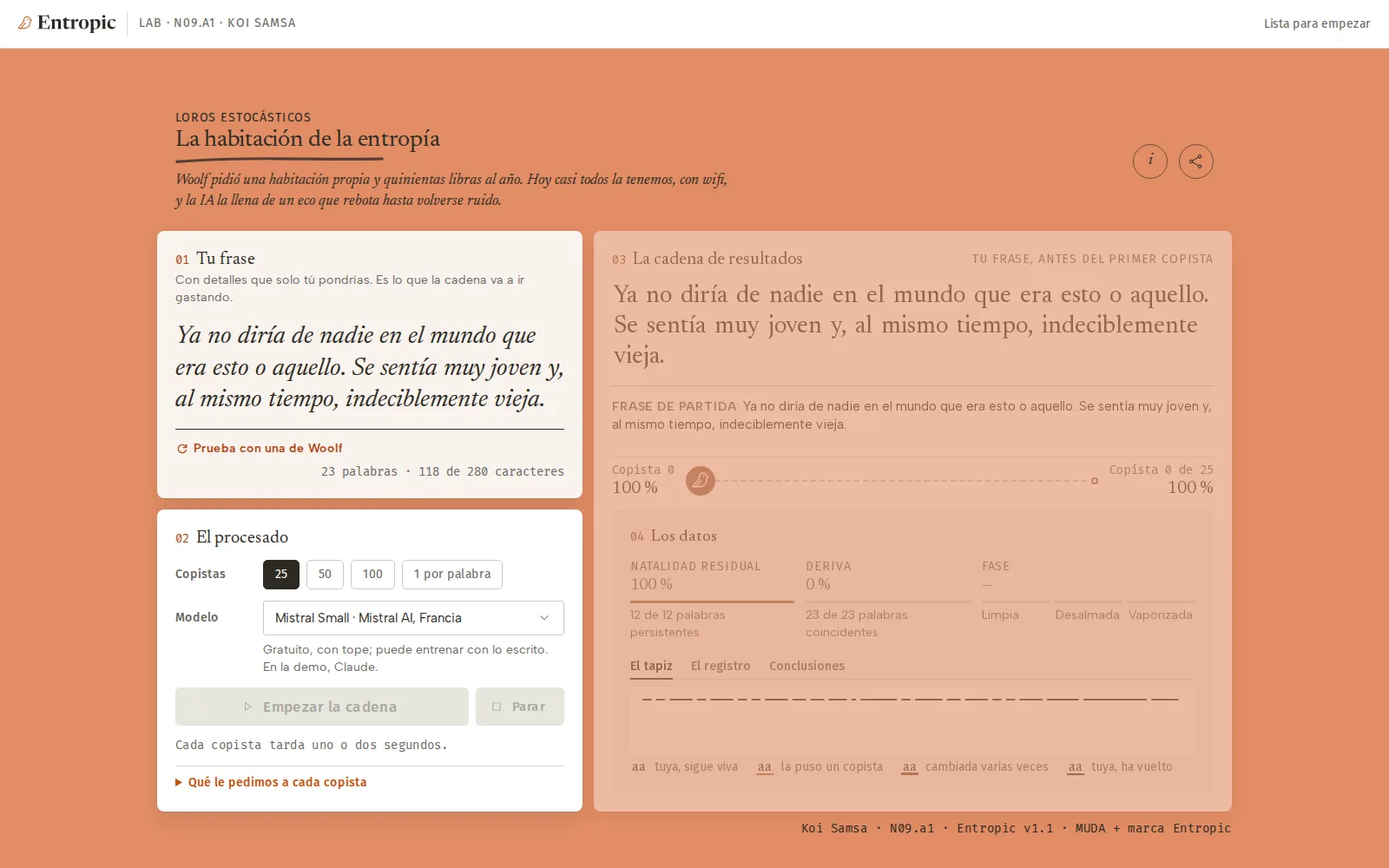
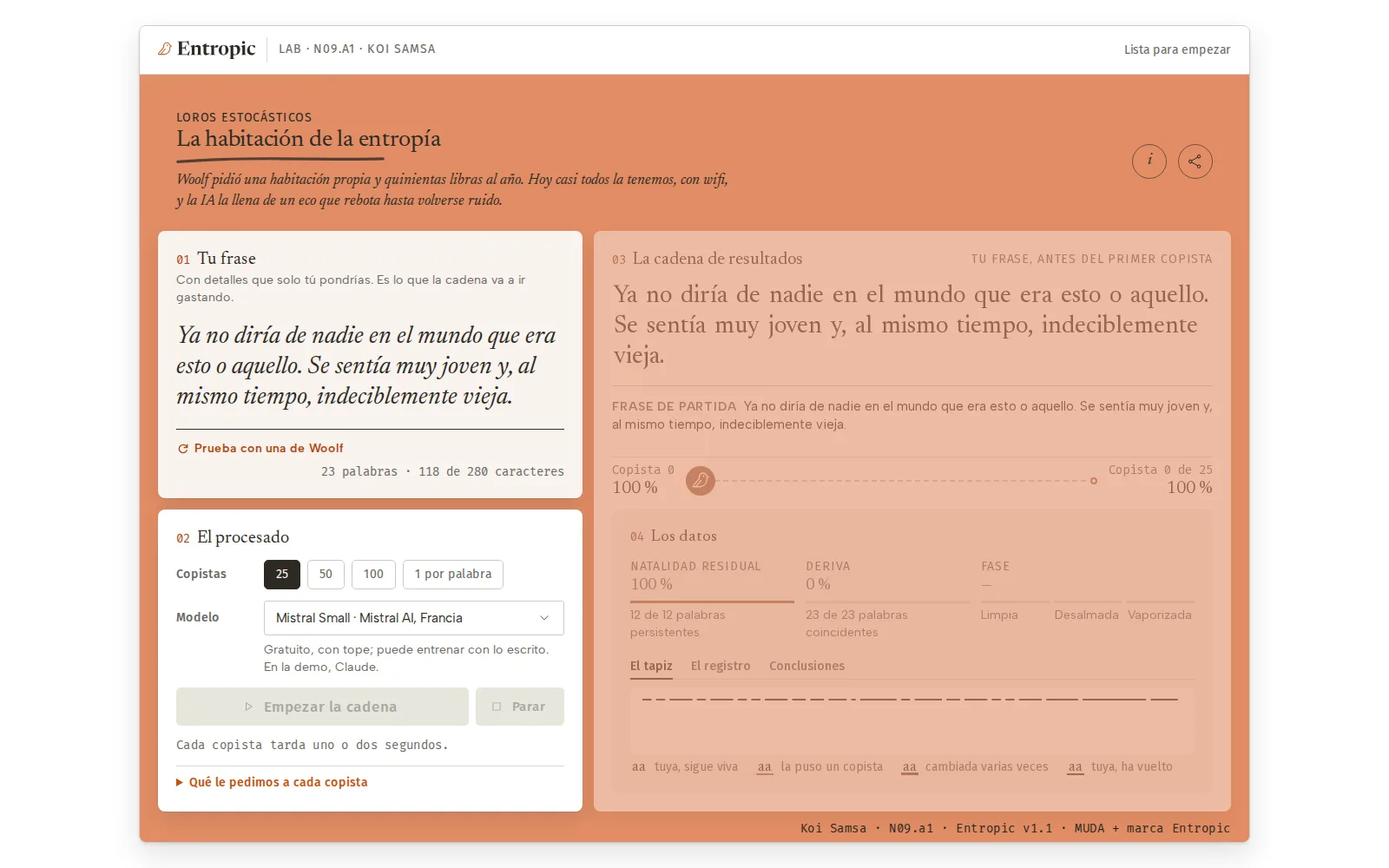
Entropic (pruebas): el artefacto con sus límites sobre papel blanco
Claude-Session: https://claude.ai/code/session_01NYq8dv3LPkkbJZLNcdF2uc

diff --git a/public/grafo/KS-N09a1-habitacion-entropia-v1.html b/public/grafo/KS-N09a1-habitacion-entropia-v1.html
@@ -1001,12 +1001,12 @@ details.info > summary { width: var(--muda-size-control); height: var(--muda-siz
    0,8 · 0,9 · 1 · 1,15 · 1,3 — la mayor que quepa entera. Por debajo de 1000 de ancho, la columna de móvil.
    Dentro de la mesa: densidad comprimida siempre y etiquetas de 14 px como mínimo (a 0,9, 12,6). ═══ */
 #campo { container-type: inline-size; }
-html.mesa body { display: flex; flex-direction: column; min-height: 100vh; background: var(--muda-color-orange-500); }
-html.mesa .bar { flex: 0 0 auto; zoom: var(--mesa-z, 1); }
+html.mesa body { display: flex; flex-direction: column; min-height: 100vh; background: var(--muda-color-bg-surface); }
+html.mesa .bar { flex: 0 0 auto; position: relative; }
 html.mesa .medidores { grid-template-columns: minmax(0, 1fr) minmax(0, 1fr) minmax(0, 1.3fr); }
 .medidor .escala { column-gap: var(--muda-space-sm); }
 .medidor .escala b { white-space: nowrap; }
-html.mesa #campo { zoom: var(--mesa-z, 1); width: 1280px; height: 885px; flex: 0 0 auto; margin: auto; box-sizing: border-box; }
+html.mesa #campo { width: 100%; height: 885px; flex: 0 0 auto; box-sizing: border-box; }
 html.mesa { --muda-typography-size-meta-s: 14px; --muda-typography-size-meta-m: 14px; --muda-typography-size-meta-l: 14px; }
 html.mesa .pantalla .now-origin .now-origin-l, html.mesa #pConc .ticket .tq-k, html.mesa #pConc .ticket .tq-num dt { font-size: 14px; }
 
@@ -1022,12 +1022,20 @@ html.mesa .pantalla .now-origin .now-origin-l, html.mesa #pConc .ticket .tq-k, h
 #pTapiz .legend { padding: 0; box-shadow: none; gap: var(--muda-space-xs) var(--muda-space-lg); font-size: var(--muda-typography-size-meta-l); }
 #pTapiz .tapiz-read:empty { display: none; }
 #pTapiz .tapiz-read:not(:empty) + .legend { display: none; }
+
+/* ═══ v1.1 · el artefacto, con sus límites (Patricia, 15:42: «el fondo de la página, blanco; el programita, la app naranja con su
+   franjita del logo arriba, con límites visibles alrededor de la totalidad del artefacto»). Barra y campo forman un solo objeto:
+   filete de 1, radio 8 y sombra de elevación MUDA; alrededor, papel blanco con 13 de margen. En móvil el objeto es la pantalla. ═══ */
+html.mesa .app { zoom: var(--mesa-z, 1); width: 1280px; margin: auto; display: flex; flex-direction: column; flex: 0 0 auto;
+  border: 1px solid var(--muda-color-stroke-sub); border-radius: var(--muda-radius-md); overflow: hidden;
+  box-shadow: 0 2px 3px rgb(45 42 35 / .08), 0 13px 34px rgb(45 42 35 / .14); }
+html.mesa body { padding: var(--muda-space-md); box-sizing: border-box; }
 </style>
 
 <script>
 /* v1.1 · la mesa: etapa 0,9 · 1 · 1,15 · 1,3 — la mayor que cabe entera (barra y campo, 1280 × 880, escalan juntos) */
 (function () {
-  const root = document.documentElement, W0 = 1280, H0 = 940, ETAPAS = [0.8, 0.9, 1, 1.15, 1.3];   /* 940 = barra 55 + campo 885 */
+  const root = document.documentElement, W0 = 1280 + 26, H0 = 942 + 26, ETAPAS = [0.8, 0.9, 1, 1.15, 1.3];   /* artefacto 1280 × 942 (barra 55 + campo 885 + filetes) + 13 de papel por lado */
   function etapa() {
     const w = root.clientWidth, h = window.innerHeight;
     let z = 0;
@@ -1044,6 +1052,7 @@ html.mesa .pantalla .now-origin .now-origin-l, html.mesa #pConc .ticket .tq-k, h
 })();
 </script>
 <div id="llegada" aria-hidden="true"><p class="ll-k">koisamsa.com · Lab</p><svg class="ll-logo" viewBox="0 -1499 10387 1940" aria-hidden="true" xmlns="http://www.w3.org/2000/svg"><g class="logo-ave"><path class="logo-icon" transform="translate(-70.9,-1443.1) scale(6.4423)" d="M176,68a12,12,0,1,1-12-12A12,12,0,0,1,176,68Zm64,12a8,8,0,0,1-3.56,6.66L216,100.28V120A104.11,104.11,0,0,1,112,224H24a16,16,0,0,1-12.49-26l.1-.12L96,96.63V76.89C96,43.47,122.79,16.16,155.71,16H156a60,60,0,0,1,57.21,41.86l23.23,15.48A8,8,0,0,1,240,80Zm-22.42,0L201.9,69.54a8,8,0,0,1-3.31-4.64A44,44,0,0,0,156,32h-.22C131.64,32.12,112,52.25,112,76.89V99.52a8,8,0,0,1-1.85,5.13L24,208h26.9l70.94-85.12a8,8,0,1,1,12.29,10.24L71.75,208H112a88.1,88.1,0,0,0,88-88V96a8,8,0,0,1,3.56-6.66Z"/></g><g class="logo-nombre"><path class="logo-name" d="M3000.35933670235 -1055.96044921875 2957.879112092975 -746.0 3000.35933670235 -438.03955078125H2974.1192243976625L2851.2469099445375 -700.3997192382812L2439.6646955890687 -723.9757080078125V-769.4483032226562L2851.2469099445375 -796.17626953125L2974.1192243976625 -1055.96044921875ZM3322.6556623859437 -1008.4392700195312 3291.7195051593812 -998.7432250976562 3056.3745954914125 -1391.0319213867188 3216.5827864093812 -1353.03955078125H2362.4308088703187V-1430.0H3085.8228987140687L3226.4551008625062 -1498.8403930664062H3239.9672468586ZM3090.9110334796937 -43.05621337890625 3354.92769607735 -444.82513427734375 3388.407920686725 -436.12908935546875 3272.231651155475 66.29632568359375H3254.9034040851625L3122.2392805500062 0.0H2362.4308088703187V-76.96044921875H3241.094932405475ZM2060.94918045235 0.0V-32.81610107421875L2224.684776155475 -77.36016845703125V-1353.6398315429688L2060.94918045235 -1396.7598876953125V-1430.0H2558.7361677570375V0.0ZM3884.1997297687562 -829.0471801757812V-60.39208984375L3998.3669660968812 -29.5440673828125V0.0H3473.6695173664125V-29.5440673828125L3592.5008772296937 -61.66412353515625V-805.9666748046875Q3576.076865999225 -821.4788208007812 3545.7288435382875 -849.5190734863281Q3515.38082107735 -877.559326171875 3462.645225374225 -919.2872924804688V-943.6474609375L3870.447471467975 -1054.5759887695312H3884.1997297687562ZM4132.117820589068 -29.5440673828125 4246.8610456867245 -60.39208984375V-682.1915283203125Q4246.8610456867245 -741.1353149414062 4228.025169221881 -778.2911071777344Q4209.189292757037 -815.4468994140625 4170.941551057818 -833.0707702636719Q4132.6938093585995 -850.6946411132812 4072.3822248859437 -850.6946411132812Q4012.8867414875062 -850.6946411132812 3956.6511457843812 -834.4947814941406Q3900.4155500812562 -818.294921875 3851.7195051593812 -794.8709106445312L3844.231651155475 -814.1748657226562Q3921.8076399250062 -889.1353149414062 3977.8236006183656 -934.8275451660156Q4033.839561311725 -980.519775390625 4078.415550081256 -1004.1238708496094Q4122.991538850787 -1027.7279663085938 4165.5356062335995 -1035.8639831542969Q4208.079673616412 -1044.0 4259.439842073443 -1044.0Q4400.9276960773495 -1044.0 4469.743797151568 -966.5600280761719Q4538.559898225787 -889.1200561523438 4538.559898225787 -733.96044921875V-61.66412353515625L4656.9672468585995 -29.5440673828125V0.0H4132.117820589068ZM5139.704246370318 -291.25677490234375Q5139.704246370318 -222.34490966796875 5182.3881452960995 -188.02499389648438Q5225.072044221881 -153.705078125 5304.464134065631 -153.705078125Q5349.736167757037 -153.705078125 5399.856223909381 -160.8570556640625Q5449.9762800617245 -168.009033203125 5517.3683699054745 -186.1610107421875V-147.13671875Q5416.312156526568 -79.4163818359375 5348.2118757648495 -42.1322021484375Q5280.111595003131 -4.8480224609375 5227.6632917804745 9.984039306640625Q5175.214988557818 24.81610107421875 5120.462730257037 24.81610107421875Q5041.414146272662 24.81610107421875 4980.313865510943 -5.636016845703125Q4919.2135847492245 -36.088134765625 4884.033500520709 -100.29632568359375Q4848.853416292193 -164.5045166015625 4848.853416292193 -265.56072998046875V-852.7508544921875L4703.620933382037 -960.0076293945312V-980.7918090820312Q4714.4689558429745 -987.7918090820312 4745.493247835162 -1005.1679382324219Q4776.5175398273495 -1022.5440673828125 4820.341972200396 -1047.9642639160156Q4864.166404573443 -1073.3844604492188 4915.7028425617245 -1103.3806457519531Q4967.239280550006 -1133.3768310546875 5021.171623079303 -1164.9649658203125Q5075.1039656085995 -1196.5531005859375 5124.344077913287 -1225.5531005859375H5139.704246370318V-993.5121459960938ZM5030.638999788287 -885.0471801757812V-1024.0H5484.2802351398495L5465.312156526568 -885.0471801757812ZM6303.096336214068 -1044.1200561523438Q6355.1525495929745 -1044.1200561523438 6385.392661897662 -1012.7598876953125Q6415.6327742023495 -981.3997192382812 6415.6327742023495 -928.9194946289062Q6415.6327742023495 -863.6231689453125 6373.592521516803 -819.2508544921875Q6331.552268831256 -774.8785400390625 6270.1039656085995 -774.8785400390625Q6234.5356062335995 -774.8785400390625 6206.523460237506 -781.6505737304688Q6178.511314241412 -788.422607421875 6150.755241243365 -795.1946411132812Q6122.999168245318 -801.9666748046875 6086.911033479693 -801.9666748046875Q6057.4870222492245 -801.9666748046875 6032.971061555865 -794.0107421875Q6008.455100862506 -786.0548095703125 5986.211173860553 -770.8108825683594Q5963.9672468585995 -755.5669555664062 5940.3593367023495 -732.2630004882812L5939.935325471881 -777.9590454101562Q6021.295493928912 -867.9833374023438 6076.823600618365 -921.1915283203125Q6132.351707307818 -974.3997192382812 6171.379813997271 -1000.8518371582031Q6210.4079206867245 -1027.303955078125 6241.072044221881 -1035.7120056152344Q6271.736167757037 -1044.1200561523438 6303.096336214068 -1044.1200561523438ZM5967.199729768756 -850.2477416992188V-61.66412353515625L6106.031089632037 -29.5440673828125V0.0H5556.669517366412V-29.5440673828125L5675.500877229693 -61.66412353515625V-805.9666748046875Q5662.500877229693 -817.7827758789062 5646.680961458209 -831.0548095703125Q5630.8610456867245 -844.3268432617188 5606.7531355304745 -865.0069274902344Q5582.6452253742245 -885.68701171875 5545.6452253742245 -919.2872924804688V-943.6474609375L5953.4474714679745 -1054.5759887695312H5967.199729768756ZM6977.509910432818 -34.60028076171875Q7052.461326448443 -34.60028076171875 7100.440849153521 -83.66412353515625Q7148.4203718585995 -132.72796630859375 7171.108085481646 -234.65579223632812Q7193.795799104693 -336.5836181640625 7193.795799104693 -494.03955078125Q7193.795799104693 -658.0076293945312 7171.820091096881 -767.7796630859375Q7149.844383089068 -877.5516967773438 7102.304832307818 -933.2637023925781Q7054.765281526568 -988.9757080078125 6978.421775667193 -988.9757080078125Q6903.470359651568 -988.9757080078125 6855.7028425617245 -939.911865234375Q6807.935325471881 -890.8480224609375 6785.0356062335995 -789.1322021484375Q6762.135886995318 -687.4163818359375 6762.135886995318 -529.96044921875Q6762.135886995318 -366.568359375 6784.111595003131 -256.29632568359375Q6806.087303010943 -146.0242919921875 6853.626853792193 -90.31228637695312Q6901.166404573443 -34.60028076171875 6977.509910432818 -34.60028076171875ZM6968.725730745318 24.2401123046875Q6820.005393831256 24.2401123046875 6703.8412702960995 -43.7598876953125Q6587.677146760943 -111.7598876953125 6521.04112991524 -232.2598876953125Q6454.405113069537 -352.7598876953125 6454.405113069537 -510.03192138671875Q6454.405113069537 -669.0 6524.661186067584 -790.2720336914062Q6594.917259065631 -911.5440673828125 6715.6254499835995 -979.89208984375Q6836.333640901568 -1048.2401123046875 6987.205955354693 -1048.2401123046875Q7138.926292268756 -1048.2401123046875 7254.802421419146 -980.4521179199219Q7370.678550569537 -912.6641235351562 7436.31456741524 -792.2401123046875Q7501.950584260943 -671.8161010742188 7501.950584260943 -513.9680786132812Q7501.950584260943 -355.0 7430.482505647662 -233.51596069335938Q7359.014427034381 -112.03192138671875 7238.230247346881 -43.895904541015625Q7117.446067659381 24.2401123046875 6968.725730745318 24.2401123046875ZM8437.756248323443 -485.81610107421875Q8437.756248323443 -694.4559326171875 8377.412742464068 -787.1596069335938Q8317.069236604693 -879.86328125 8186.205955354693 -879.86328125Q8142.078269807818 -879.86328125 8102.5265730304745 -869.9073486328125Q8062.974876253131 -859.951416015625 8027.423179475787 -839.5836181640625Q7991.871482698443 -819.2158203125 7959.167808382037 -786.9042358398438L7950.527976839068 -814.1124267578125Q8018.224021760943 -885.1124267578125 8072.391959993365 -930.9163818359375Q8126.559898225787 -976.7203369140625 8172.379813997271 -1002.3882751464844Q8218.199729768756 -1028.0562133789062 8260.50368484688 -1038.1481628417969Q8302.807639925006 -1048.2401123046875 8346.775718538287 -1048.2401123046875Q8473.11159500313 -1048.2401123046875 8561.311454622271 -990.9201965332031Q8649.511314241412 -933.6002807617188 8695.483207551959 -827.5083312988281Q8741.455100862506 -721.4163818359375 8741.455100862506 -572.6002807617188Q8741.455100862506 -381.5440673828125 8669.199027864459 -248.07598876953125Q8596.942954866412 -114.60791015625 8470.762870637896 -45.18389892578125Q8344.58278640938 24.2401123046875 8181.886741487506 24.2401123046875Q8122.6147077960995 24.2401123046875 8062.538719026568 15.952117919921875Q8002.462730257037 7.66412353515625 7945.250724641803 -9.911865234375Q7888.038719026568 -27.48785400390625 7836.070640413287 -55.0638427734375H8013.3197859210995V379.09576416015625L8152.151145784381 411.2158203125V440.7598876953125H7602.789573518756V411.2158203125L7721.620933382037 379.09576416015625V-806.3906860351562Q7708.620933382037 -818.206787109375 7692.801017610553 -831.2668151855469Q7676.981101839068 -844.3268432617188 7652.873191682818 -865.0069274902344Q7628.765281526568 -885.68701171875 7591.765281526568 -919.2872924804688V-943.6474609375L7999.567527620318 -1054.5759887695312H8013.3197859210995V-868.6793823242188V-224.59124755859375Q8013.3197859210995 -167.6474609375 8036.779533235553 -124.70367431640625Q8060.239280550006 -81.7598876953125 8102.3988874835995 -58.060028076171875Q8144.558494417193 -34.36016845703125 8199.294090120318 -34.36016845703125Q8274.821494905475 -34.36016845703125 8328.13307937813 -81.13601684570312Q8381.444663850787 -127.911865234375 8409.600456087115 -227.7158203125Q8437.756248323443 -327.519775390625 8437.756248323443 -485.81610107421875ZM9110.470359651568 -1168.0791015625Q9035.598045198443 -1168.0791015625 8992.101859895709 -1216.8032531738281Q8948.605674592975 -1265.5274047851562 8948.605674592975 -1328.7036743164062Q8948.605674592975 -1390.60791015625 8992.101859895709 -1434.8320617675781Q9035.598045198443 -1479.0562133789062 9110.470359651568 -1479.0562133789062Q9185.766685335162 -1479.0562133789062 9227.47487625313 -1434.8320617675781Q9269.1830671711 -1390.60791015625 9269.1830671711 -1328.7036743164062Q9269.1830671711 -1265.5274047851562 9227.47487625313 -1216.8032531738281Q9185.766685335162 -1168.0791015625 9110.470359651568 -1168.0791015625ZM9269.351707307818 -1054.5759887695312V-849.82373046875V-60.39208984375L9383.518943635943 -29.5440673828125V0.0H8858.821494905475V-29.5440673828125L8977.652854768756 -61.66412353515625V-805.9666748046875Q8966.652854768756 -815.9347534179688 8947.832938997271 -831.8428039550781Q8929.013023225787 -847.7508544921875 8903.905113069537 -869.7789611816406Q8878.797202913287 -891.8070678710938 8847.797202913287 -919.2872924804688V-943.6474609375L9255.599449007037 -1054.5759887695312ZM10040.05397781563 -1048.2401123046875Q10157.254539339068 -1048.2401123046875 10228.50679763985 -1023.3639831542969Q10299.75905594063 -998.4878540039062 10331.727134553912 -959.9757080078125Q10363.695213167193 -921.4635620117188 10363.695213167193 -879.4954833984375Q10363.695213167193 -844.25537109375 10347.379112092975 -817.86328125Q10331.063011018756 -791.47119140625 10304.322898714068 -777.1391296386719Q10277.58278640938 -762.8070678710938 10244.734763948443 -762.8070678710938Q10235.038719026568 -762.8070678710938 10214.646629182818 -785.4871520996094Q10194.254539339068 -808.167236328125 10165.93843826485 -841.3313598632812Q10137.62233719063 -874.4954833984375 10103.23024734688 -907.735595703125Q10068.83815750313 -940.9757080078125 10031.718101350787 -963.6557922363281Q9994.598045198443 -986.3358764648438 9957.022056428912 -986.3358764648438Q9899.710471956256 -986.3358764648438 9855.794792024615 -951.9680786132812Q9811.879112092975 -917.6002807617188 9787.375297395709 -841.1245727539062Q9762.871482698443 -764.6488647460938 9762.871482698443 -637.8251342773438Q9762.871482698443 -470.82513427734375 9800.115409700396 -368.6571960449219Q9837.35933670235 -266.4892578125 9909.635185091021 -220.60931396484375Q9981.911033479693 -174.7293701171875 10086.734763948443 -174.7293701171875Q10169.278831331256 -174.7293701171875 10237.130668489459 -203.56524658203125Q10304.982505647662 -232.401123046875 10365.430808870318 -300.82513427734375L10386.36696609688 -283.4649658203125Q10321.430808870318 -168.3525390625 10255.630668489459 -100.94830322265625Q10189.8305281086 -33.5440673828125 10117.470359651568 -4.6519775390625Q10045.110191194537 24.2401123046875 9958.205955354693 24.2401123046875Q9818.789573518756 24.2401123046875 9711.293388216021 -36.167938232421875Q9603.797202913287 -96.57598876953125 9542.965141145709 -212.13601684570312Q9482.13307937813 -327.696044921875 9482.13307937813 -493.1519775390625Q9482.13307937813 -613.1519775390625 9524.52516922188 -714.5Q9566.91725906563 -815.8480224609375 9643.21739944649 -890.696044921875Q9719.51753982735 -965.5440673828125 9820.953697053912 -1006.89208984375Q9922.389854280475 -1048.2401123046875 10040.05397781563 -1048.2401123046875Z"/></g></svg><p class="ll-lema">La habitación de la entropía</p></div>
+<div class="app" id="app">
 <header class="bar">
   <svg class="logo" viewBox="0 -1499 10387 1940" role="img" aria-label="Entropic" xmlns="http://www.w3.org/2000/svg"><g class="logo-ave"><path class="logo-icon" transform="translate(-70.9,-1443.1) scale(6.4423)" d="M176,68a12,12,0,1,1-12-12A12,12,0,0,1,176,68Zm64,12a8,8,0,0,1-3.56,6.66L216,100.28V120A104.11,104.11,0,0,1,112,224H24a16,16,0,0,1-12.49-26l.1-.12L96,96.63V76.89C96,43.47,122.79,16.16,155.71,16H156a60,60,0,0,1,57.21,41.86l23.23,15.48A8,8,0,0,1,240,80Zm-22.42,0L201.9,69.54a8,8,0,0,1-3.31-4.64A44,44,0,0,0,156,32h-.22C131.64,32.12,112,52.25,112,76.89V99.52a8,8,0,0,1-1.85,5.13L24,208h26.9l70.94-85.12a8,8,0,1,1,12.29,10.24L71.75,208H112a88.1,88.1,0,0,0,88-88V96a8,8,0,0,1,3.56-6.66Z"/></g><g class="logo-nombre"><path class="logo-name" d="M3000.35933670235 -1055.96044921875 2957.879112092975 -746.0 3000.35933670235 -438.03955078125H2974.1192243976625L2851.2469099445375 -700.3997192382812L2439.6646955890687 -723.9757080078125V-769.4483032226562L2851.2469099445375 -796.17626953125L2974.1192243976625 -1055.96044921875ZM3322.6556623859437 -1008.4392700195312 3291.7195051593812 -998.7432250976562 3056.3745954914125 -1391.0319213867188 3216.5827864093812 -1353.03955078125H2362.4308088703187V-1430.0H3085.8228987140687L3226.4551008625062 -1498.8403930664062H3239.9672468586ZM3090.9110334796937 -43.05621337890625 3354.92769607735 -444.82513427734375 3388.407920686725 -436.12908935546875 3272.231651155475 66.29632568359375H3254.9034040851625L3122.2392805500062 0.0H2362.4308088703187V-76.96044921875H3241.094932405475ZM2060.94918045235 0.0V-32.81610107421875L2224.684776155475 -77.36016845703125V-1353.6398315429688L2060.94918045235 -1396.7598876953125V-1430.0H2558.7361677570375V0.0ZM3884.1997297687562 -829.0471801757812V-60.39208984375L3998.3669660968812 -29.5440673828125V0.0H3473.6695173664125V-29.5440673828125L3592.5008772296937 -61.66412353515625V-805.9666748046875Q3576.076865999225 -821.4788208007812 3545.7288435382875 -849.5190734863281Q3515.38082107735 -877.559326171875 3462.645225374225 -919.2872924804688V-943.6474609375L3870.447471467975 -1054.5759887695312H3884.1997297687562ZM4132.117820589068 -29.5440673828125 4246.8610456867245 -60.39208984375V-682.1915283203125Q4246.8610456867245 -741.1353149414062 4228.025169221881 -778.2911071777344Q4209.189292757037 -815.4468994140625 4170.941551057818 -833.0707702636719Q4132.6938093585995 -850.6946411132812 4072.3822248859437 -850.6946411132812Q4012.8867414875062 -850.6946411132812 3956.6511457843812 -834.4947814941406Q3900.4155500812562 -818.294921875 3851.7195051593812 -794.8709106445312L3844.231651155475 -814.1748657226562Q3921.8076399250062 -889.1353149414062 3977.8236006183656 -934.8275451660156Q4033.839561311725 -980.519775390625 4078.415550081256 -1004.1238708496094Q4122.991538850787 -1027.7279663085938 4165.5356062335995 -1035.8639831542969Q4208.079673616412 -1044.0 4259.439842073443 -1044.0Q4400.9276960773495 -1044.0 4469.743797151568 -966.5600280761719Q4538.559898225787 -889.1200561523438 4538.559898225787 -733.96044921875V-61.66412353515625L4656.9672468585995 -29.5440673828125V0.0H4132.117820589068ZM5139.704246370318 -291.25677490234375Q5139.704246370318 -222.34490966796875 5182.3881452960995 -188.02499389648438Q5225.072044221881 -153.705078125 5304.464134065631 -153.705078125Q5349.736167757037 -153.705078125 5399.856223909381 -160.8570556640625Q5449.9762800617245 -168.009033203125 5517.3683699054745 -186.1610107421875V-147.13671875Q5416.312156526568 -79.4163818359375 5348.2118757648495 -42.1322021484375Q5280.111595003131 -4.8480224609375 5227.6632917804745 9.984039306640625Q5175.214988557818 24.81610107421875 5120.462730257037 24.81610107421875Q5041.414146272662 24.81610107421875 4980.313865510943 -5.636016845703125Q4919.2135847492245 -36.088134765625 4884.033500520709 -100.29632568359375Q4848.853416292193 -164.5045166015625 4848.853416292193 -265.56072998046875V-852.7508544921875L4703.620933382037 -960.0076293945312V-980.7918090820312Q4714.4689558429745 -987.7918090820312 4745.493247835162 -1005.1679382324219Q4776.5175398273495 -1022.5440673828125 4820.341972200396 -1047.9642639160156Q4864.166404573443 -1073.3844604492188 4915.7028425617245 -1103.3806457519531Q4967.239280550006 -1133.3768310546875 5021.171623079303 -1164.9649658203125Q5075.1039656085995 -1196.5531005859375 5124.344077913287 -1225.5531005859375H5139.704246370318V-993.5121459960938ZM5030.638999788287 -885.0471801757812V-1024.0H5484.2802351398495L5465.312156526568 -885.0471801757812ZM6303.096336214068 -1044.1200561523438Q6355.1525495929745 -1044.1200561523438 6385.392661897662 -1012.7598876953125Q6415.6327742023495 -981.3997192382812 6415.6327742023495 -928.9194946289062Q6415.6327742023495 -863.6231689453125 6373.592521516803 -819.2508544921875Q6331.552268831256 -774.8785400390625 6270.1039656085995 -774.8785400390625Q6234.5356062335995 -774.8785400390625 6206.523460237506 -781.6505737304688Q6178.511314241412 -788.422607421875 6150.755241243365 -795.1946411132812Q6122.999168245318 -801.9666748046875 6086.911033479693 -801.9666748046875Q6057.4870222492245 -801.9666748046875 6032.971061555865 -794.0107421875Q6008.455100862506 -786.0548095703125 5986.211173860553 -770.8108825683594Q5963.9672468585995 -755.5669555664062 5940.3593367023495 -732.2630004882812L5939.935325471881 -777.9590454101562Q6021.295493928912 -867.9833374023438 6076.823600618365 -921.1915283203125Q6132.351707307818 -974.3997192382812 6171.379813997271 -1000.8518371582031Q6210.4079206867245 -1027.303955078125 6241.072044221881 -1035.7120056152344Q6271.736167757037 -1044.1200561523438 6303.096336214068 -1044.1200561523438ZM5967.199729768756 -850.2477416992188V-61.66412353515625L6106.031089632037 -29.5440673828125V0.0H5556.669517366412V-29.5440673828125L5675.500877229693 -61.66412353515625V-805.9666748046875Q5662.500877229693 -817.7827758789062 5646.680961458209 -831.0548095703125Q5630.8610456867245 -844.3268432617188 5606.7531355304745 -865.0069274902344Q5582.6452253742245 -885.68701171875 5545.6452253742245 -919.2872924804688V-943.6474609375L5953.4474714679745 -1054.5759887695312H5967.199729768756ZM6977.509910432818 -34.60028076171875Q7052.461326448443 -34.60028076171875 7100.440849153521 -83.66412353515625Q7148.4203718585995 -132.72796630859375 7171.108085481646 -234.65579223632812Q7193.795799104693 -336.5836181640625 7193.795799104693 -494.03955078125Q7193.795799104693 -658.0076293945312 7171.820091096881 -767.7796630859375Q7149.844383089068 -877.5516967773438 7102.304832307818 -933.2637023925781Q7054.765281526568 -988.9757080078125 6978.421775667193 -988.9757080078125Q6903.470359651568 -988.9757080078125 6855.7028425617245 -939.911865234375Q6807.935325471881 -890.8480224609375 6785.0356062335995 -789.1322021484375Q6762.135886995318 -687.4163818359375 6762.135886995318 -529.96044921875Q6762.135886995318 -366.568359375 6784.111595003131 -256.29632568359375Q6806.087303010943 -146.0242919921875 6853.626853792193 -90.31228637695312Q6901.166404573443 -34.60028076171875 6977.509910432818 -34.60028076171875ZM6968.725730745318 24.2401123046875Q6820.005393831256 24.2401123046875 6703.8412702960995 -43.7598876953125Q6587.677146760943 -111.7598876953125 6521.04112991524 -232.2598876953125Q6454.405113069537 -352.7598876953125 6454.405113069537 -510.03192138671875Q6454.405113069537 -669.0 6524.661186067584 -790.2720336914062Q6594.917259065631 -911.5440673828125 6715.6254499835995 -979.89208984375Q6836.333640901568 -1048.2401123046875 6987.205955354693 -1048.2401123046875Q7138.926292268756 -1048.2401123046875 7254.802421419146 -980.4521179199219Q7370.678550569537 -912.6641235351562 7436.31456741524 -792.2401123046875Q7501.950584260943 -671.8161010742188 7501.950584260943 -513.9680786132812Q7501.950584260943 -355.0 7430.482505647662 -233.51596069335938Q7359.014427034381 -112.03192138671875 7238.230247346881 -43.895904541015625Q7117.446067659381 24.2401123046875 6968.725730745318 24.2401123046875ZM8437.756248323443 -485.81610107421875Q8437.756248323443 -694.4559326171875 8377.412742464068 -787.1596069335938Q8317.069236604693 -879.86328125 8186.205955354693 -879.86328125Q8142.078269807818 -879.86328125 8102.5265730304745 -869.9073486328125Q8062.974876253131 -859.951416015625 8027.423179475787 -839.5836181640625Q7991.871482698443 -819.2158203125 7959.167808382037 -786.9042358398438L7950.527976839068 -814.1124267578125Q8018.224021760943 -885.1124267578125 8072.391959993365 -930.9163818359375Q8126.559898225787 -976.7203369140625 8172.379813997271 -1002.3882751464844Q8218.199729768756 -1028.0562133789062 8260.50368484688 -1038.1481628417969Q8302.807639925006 -1048.2401123046875 8346.775718538287 -1048.2401123046875Q8473.11159500313 -1048.2401123046875 8561.311454622271 -990.9201965332031Q8649.511314241412 -933.6002807617188 8695.483207551959 -827.5083312988281Q8741.455100862506 -721.4163818359375 8741.455100862506 -572.6002807617188Q8741.455100862506 -381.5440673828125 8669.199027864459 -248.07598876953125Q8596.942954866412 -114.60791015625 8470.762870637896 -45.18389892578125Q8344.58278640938 24.2401123046875 8181.886741487506 24.2401123046875Q8122.6147077960995 24.2401123046875 8062.538719026568 15.952117919921875Q8002.462730257037 7.66412353515625 7945.250724641803 -9.911865234375Q7888.038719026568 -27.48785400390625 7836.070640413287 -55.0638427734375H8013.3197859210995V379.09576416015625L8152.151145784381 411.2158203125V440.7598876953125H7602.789573518756V411.2158203125L7721.620933382037 379.09576416015625V-806.3906860351562Q7708.620933382037 -818.206787109375 7692.801017610553 -831.2668151855469Q7676.981101839068 -844.3268432617188 7652.873191682818 -865.0069274902344Q7628.765281526568 -885.68701171875 7591.765281526568 -919.2872924804688V-943.6474609375L7999.567527620318 -1054.5759887695312H8013.3197859210995V-868.6793823242188V-224.59124755859375Q8013.3197859210995 -167.6474609375 8036.779533235553 -124.70367431640625Q8060.239280550006 -81.7598876953125 8102.3988874835995 -58.060028076171875Q8144.558494417193 -34.36016845703125 8199.294090120318 -34.36016845703125Q8274.821494905475 -34.36016845703125 8328.13307937813 -81.13601684570312Q8381.444663850787 -127.911865234375 8409.600456087115 -227.7158203125Q8437.756248323443 -327.519775390625 8437.756248323443 -485.81610107421875ZM9110.470359651568 -1168.0791015625Q9035.598045198443 -1168.0791015625 8992.101859895709 -1216.8032531738281Q8948.605674592975 -1265.5274047851562 8948.605674592975 -1328.7036743164062Q8948.605674592975 -1390.60791015625 8992.101859895709 -1434.8320617675781Q9035.598045198443 -1479.0562133789062 9110.470359651568 -1479.0562133789062Q9185.766685335162 -1479.0562133789062 9227.47487625313 -1434.8320617675781Q9269.1830671711 -1390.60791015625 9269.1830671711 -1328.7036743164062Q9269.1830671711 -1265.5274047851562 9227.47487625313 -1216.8032531738281Q9185.766685335162 -1168.0791015625 9110.470359651568 -1168.0791015625ZM9269.351707307818 -1054.5759887695312V-849.82373046875V-60.39208984375L9383.518943635943 -29.5440673828125V0.0H8858.821494905475V-29.5440673828125L8977.652854768756 -61.66412353515625V-805.9666748046875Q8966.652854768756 -815.9347534179688 8947.832938997271 -831.8428039550781Q8929.013023225787 -847.7508544921875 8903.905113069537 -869.7789611816406Q8878.797202913287 -891.8070678710938 8847.797202913287 -919.2872924804688V-943.6474609375L9255.599449007037 -1054.5759887695312ZM10040.05397781563 -1048.2401123046875Q10157.254539339068 -1048.2401123046875 10228.50679763985 -1023.3639831542969Q10299.75905594063 -998.4878540039062 10331.727134553912 -959.9757080078125Q10363.695213167193 -921.4635620117188 10363.695213167193 -879.4954833984375Q10363.695213167193 -844.25537109375 10347.379112092975 -817.86328125Q10331.063011018756 -791.47119140625 10304.322898714068 -777.1391296386719Q10277.58278640938 -762.8070678710938 10244.734763948443 -762.8070678710938Q10235.038719026568 -762.8070678710938 10214.646629182818 -785.4871520996094Q10194.254539339068 -808.167236328125 10165.93843826485 -841.3313598632812Q10137.62233719063 -874.4954833984375 10103.23024734688 -907.735595703125Q10068.83815750313 -940.9757080078125 10031.718101350787 -963.6557922363281Q9994.598045198443 -986.3358764648438 9957.022056428912 -986.3358764648438Q9899.710471956256 -986.3358764648438 9855.794792024615 -951.9680786132812Q9811.879112092975 -917.6002807617188 9787.375297395709 -841.1245727539062Q9762.871482698443 -764.6488647460938 9762.871482698443 -637.8251342773438Q9762.871482698443 -470.82513427734375 9800.115409700396 -368.6571960449219Q9837.35933670235 -266.4892578125 9909.635185091021 -220.60931396484375Q9981.911033479693 -174.7293701171875 10086.734763948443 -174.7293701171875Q10169.278831331256 -174.7293701171875 10237.130668489459 -203.56524658203125Q10304.982505647662 -232.401123046875 10365.430808870318 -300.82513427734375L10386.36696609688 -283.4649658203125Q10321.430808870318 -168.3525390625 10255.630668489459 -100.94830322265625Q10189.8305281086 -33.5440673828125 10117.470359651568 -4.6519775390625Q10045.110191194537 24.2401123046875 9958.205955354693 24.2401123046875Q9818.789573518756 24.2401123046875 9711.293388216021 -36.167938232421875Q9603.797202913287 -96.57598876953125 9542.965141145709 -212.13601684570312Q9482.13307937813 -327.696044921875 9482.13307937813 -493.1519775390625Q9482.13307937813 -613.1519775390625 9524.52516922188 -714.5Q9566.91725906563 -815.8480224609375 9643.21739944649 -890.696044921875Q9719.51753982735 -965.5440673828125 9820.953697053912 -1006.89208984375Q9922.389854280475 -1048.2401123046875 10040.05397781563 -1048.2401123046875Z"/></g></svg>
   <span class="bar-sep" aria-hidden="true"></span>
@@ -1221,6 +1230,7 @@ html.mesa .pantalla .now-origin .now-origin-l, html.mesa #pConc .ticket .tq-k, h
     </div>
   </div>
   <p class="firma">Koi Samsa · N09.a1 · Entropic v1.1 · MUDA + marca Entropic</p>
+</div>
 </div>
 
 <script>
